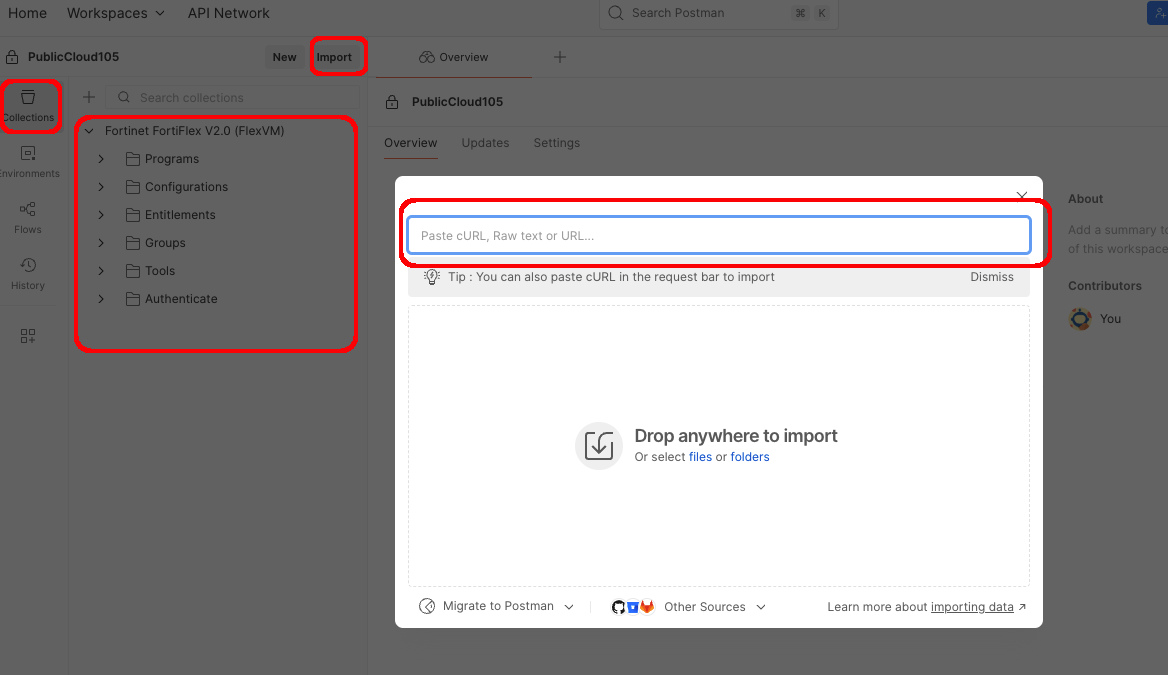
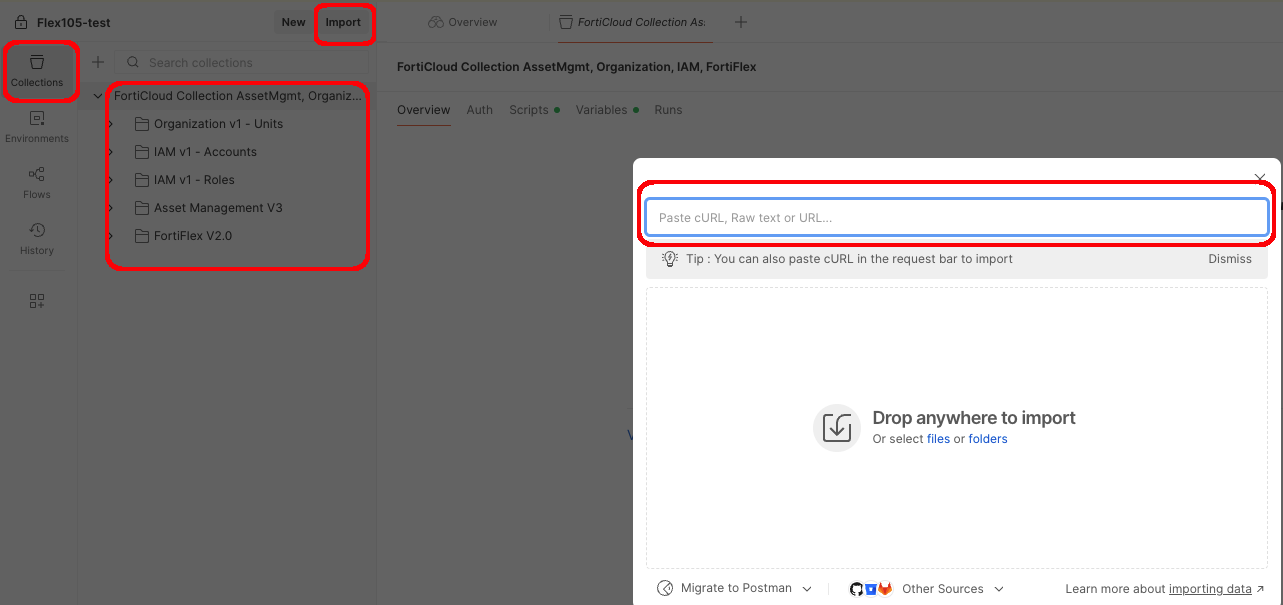
revisions from new API collection

diff --git a/content/03-hands-on-lab/flex-api/_index.md b/content/03-hands-on-lab/flex-api/_index.md
@@ -21,21 +21,38 @@ The following steps should remain relatively consistent regardless of how you're
   - In Postman, use an existing collection, or create a new one if you'd like
   - click on **File**-->**Import** in the top left corner, or **Import** button in the top left of the collection
   - On the import dialog, paste the following URL: 
-    - `https://raw.githubusercontent.com/FortinetCloudCSE/fortiflexvm-api/refs/heads/main/api/Postman/v2/Fortinet%20FortiFlex%20V2.0%20(FlexVM).postman_collection.json`
-  - You should see the **Fortinet FortiFlex v2.0 (FlexVM)** collection appear in the left sidebar
+    - `https://raw.githubusercontent.com/FortinetCloudCSE/fortiflexvm-api/refs/heads/main/api/Postman/v2/FortiCloud.postman_collection.json`
+  - You should see the **FortiCloud Collection** appear in the left sidebar
   {{< figure src="p-import.png" alt="Postman Import Collection" caption="Postman Import Collection" >}}
 {{% /tab %}}
 
-{{% tab title="Import FortiFlex Postman Environment" %}}
-  - In Postman, click on **File**-->**Import** again, or **Import** button in the top left of the collection
-  - On the import dialog, paste the following URL:
-    - `https://raw.githubusercontent.com/FortinetCloudCSE/fortiflexvm-api/refs/heads/main/api/Postman/v2/fortinet-api-flexvm.postman_environment.json`
-    - This will import the FortiFlex Postman environment
-  - You should see the **fortinet-api-flexvm** environment appear under the **Environments** tab in the left sidebar
-  - We will create a user in the FortiCloud IAM portal and add the API credentials to this environment in the next step
-    {{< figure src="p-env-import.png" alt="Postman Import Environment" caption="Postman Import Environment" >}}
+{{% tab title="Postman Collection Variables" %}}
+  - All variables used in the collection are stored at the highest level of the Collection.
+  - Click on **Collection Title** in the left sidebar, then click on the **Variables** tab
+  - You'll see variables for
+    - The API Base URLs
+    - api_username and api_password for authentication
+    - client_id for authentication (only used to override the automated client_id in the script)
+    - access_token, and expires_as for storing  Bearer tokens returned from authentication request for each client_id/request
+
+{{< figure src="p-collect-vars.png" alt="Postman Collection Variables" caption="Postman Collection Variables" >}}
+{{% notice tip %}}
+In most situations, the only variables you'll need to modify are the api_user ane apu_password.  You will notice the access_tokens populate as you launch different API requests 
+{{% /notice %}}
+
 {{% /tab %}}
-   
+{{% tab title="Explore Collection Script" %}}
+  - We've set up the FortiCloud Postman collection to automate the authentication process and store the access token for use in subsequent requests
+    - You can see the scripting used to fetch Bearer tokens by clicking on the **Scripts** tab at the top level of the Collection, and viewing the **Pre-request Script**
+    - Pseudocode 
+      ```
+      1. Grab the URL of the request, along with the API Username and Password
+      2. Set the authentication client_id depending on the path in the URL
+      3. If (No bearer token or it's already ): get a new bearer token with api_username, api_password, and client_id
+      4. Set the bearer token in the request header for the given request type
+      ```
+  - {{< figure src="p-collect-script.png" alt="Postman Collection script" caption="Postman Collection Scripting" >}}
+{{% /tab %}}
 {{< /tabs >}}
 
 
@@ -52,7 +69,9 @@ Click on **Add New --> API User**
 {{<figure src="create-api-user.png" alt="Create FortiFlex API User" caption="Create FortiFlex API User" >}}
 {{% /tab %}}
 {{% tab title="API User" %}}
-Enter a username for the API User such as: `flexapiuser`
+- Enter a username for the API User such as: `flexapiuser`
+- Choose the **SysAdmin** Permission Profile
+- Click Next
 {{<figure src="add-api-user.png" alt="API User" caption="API User Creation" >}}
 {{% /tab %}}
 {{% tab title="API Credentials" %}}
@@ -61,64 +80,49 @@ Enter a username for the API User such as: `flexapiuser`
 
 {{<figure src="api-user-cred-download.png" alt="API Credentials" caption="API Credentials" >}}
 
-- You'll get a password protected zip file with the API credentials.  Open it using the same **password** you entered when downloading the file.
-- The folder will contain a single text file with the APIId and password
-- You'll enter the apiId and password into a Postman Environment in the next step
+- You'll get a password-protected zip file with the API credentials.  Open it using the same **password** you entered when downloading the file.
+- The folder will contain a single text file with the **apiId** and **password**
+- You'll enter the apiId and password into a Postman Collection Variables the next step
 {{% /tab %}}
 
-{{% tab title="Postman Environment" %}}
-- Back on Postman, make sure you have the **fortinet-api-flexvm** environment selected
-- Copy the `apiId` from the credentials text file into the **api-username** Postman **Current value** variable
-- Copy the `password` from the credentials text file into the **api-password** Postman **Current value** variable
-- Click **Save** to save the environment
-{{<figure src="p-env-save.png" alt="Postman Environment" >}}
+{{% tab title="Postman Variables" %}}
+- Back in Postman, enter the newly created apiId and password into the Postman Collection Variables
+- Copy the `apiId` from the credentials text file into the **api_user** Postman **Current value** variable
+- Copy the `password` from the credentials text file into the **api_password** Postman **Current value** variable
+- Click **Save** to save the collection variables
+{{<figure src="p-collect-vars-save.png" alt="Postman Environment" >}}
 {{% notice tip %}}
 **Important**: Make sure to use the **Current value** field, not the **Initial value** field. The **Current value** is what will be used when you send requests.
 {{% /notice %}}
 {{% /tab %}}
 
-{{% tab title="Flex API Authentication" %}}
-Browse to the Flex API collection
-- Open the **Retrieve Auth Token** request, under **Authenticate** folder
-- In the Top right, choose your newly updated environment **fortinet-api-flexvm**
+{{% tab title="Verify Successful Auth" %}}
+
+- From the top level FortiCloud Collection, open folder: **FortiFlex V2.0-->Programs**, and then POST Request:  **List**
 - Click the **Send** button
 {{< figure src="flex-auth-return.png" alt="Postman Auth Token" >}}
-- You should see a response with a 200 OK status and an `access_token` in the response body
-- If you open the scripts tab for this request, you can see that we automatically store this return value for use in subsequent requests
-- Click on the **Variables in request** icon on the rop right, and then expand **All variables** to see the `access_token` variable we store for use in all future requests
+- You should see a response with a 200 OK status and 2 different `serialNumber` in the response body
 
+Congratulations, you're now authenticated with the FortiFlex API!
+{{% notice warning %}}
+If you get an error at this step, please double-check everything and-or check with the Workshop Instructor
+{{% /notice %}}
 
-Congratulations, you're now authenticated with the FortiFlex API! You can use this token for all subsequent API requests.
 {{% /tab %}}
 {{< /tabs >}}
 
-### Step 3: Understand Authentication and Basic List Actions
-Let's take a moment to understand authentication and look at how authentication works with the FortiFlex API list actions
+### Step 3: Basic List Actions
+Let's take a moment to understand FortiFlex API list actions
 {{< tabs >}}
-{{% tab title="Authentication Request" %}}
-The FortiFlex API uses Bearer token authentication. 
-
-- We get a Bearer token by first passing our API Username and API Password in the **Body** of a **Post** to the Authentication URL 
-- Once we have the Bearer token, returned as **access_token** in response body of our **Post** , we can use it in the Authorization header for all subsequent API requests.
-- Full Documentation for the FortiFlex API can be found at: [FortiFlex API Documentation](https://fndn.fortinet.net/index.php?/fortiapi/954-fortiflex/)
-
-{{< figure src="p-authc-request.png" alt="FortiFlex API Documentation" caption="FortiFlex API Documentation" >}}
-{{% /tab %}}
-
-{{% tab title="Programs List AuthC" %}}
-Now that we have a Bearer token, we can retrieve a list of FortiFlex Programs by sending a request to the **/programs/configs** endpoint.
-- Open the **Post list** request from the **Programs** folder in the collection
-- Click **Send** to retrieve the list of Programs
-- You should see a response with a 200 OK status and a list of programs in the response body
-{{< figure src="p-program-list-authc.png" alt="FortiFlex Configurations List AuthC" caption="FortiFlex Configurations List AuthC" >}}
-{{% /tab %}}
 
 {{% tab title="Configuration List Body" %}}
 To view configurations
 - We can then take the Flex Program SN we got from the previous request along with our FortiCloud Account ID, and use it to retrieve a list of Configurations for that Program.
 - Open the **Post List** request from the **Configurations** folder in the collection 
-  - For this Workshop, the Program SN is: `ELAVMR0000000519`
+  - For this Workshop, we're focusing on FortiFlex MSSP(postpaid), and the Program SN is: `ELAVMS0000000518`
   - You can get your FortiCloud Account ID from the FortiCloud Portal top right corner
+    - click on the down arrow next to your account name, and look for the **Member Account ID**
+    {{< figure src="fcld-accountId.png" alt="FortiCloud Account ID" caption="FortiCloud Account ID" >}}
   - enter both into the **Body** of the **Get Configurations** request, and click **Send**
   - You should see a response with a 200 OK status and a list of configurations in the response body
   {{< figure src="p-config-list.png" alt="FortiFlex Configurations List Body" caption="FortiFlex Configurations List Body" >}}
@@ -133,18 +137,18 @@ Next, we can retrieve a list of Entitlements by sending a request to the **/enti
 {{< /tabs >}}
      
 ### Step 4: Entitlement Management via API
-Let's look at disabling and enabling entitlements via the API
+Let's look at stopping and re-activating entitlements via the API
 
 {{< tabs >}}
-{{% tab title="Disable Entitlement" %}}
-- Open the **Stop ** request from the **Entitlements** folder in the collection
+{{% tab title="Stop Entitlement" %}}
+- Open the **Stop** request from the **Entitlements** folder in the collection
 - Under the **Body** tab, enter the **serialNumber** you got from the previous request
 - Click **Send** to disable the entitlement
 - You should see a response with a 200 OK status and the entitlement status updated to "STOPPED"
 - You can verify this by sending the **list** request and checking the status, or by checking the WebUI
 {{< figure src="p-entitle-stop.png" alt="Disable Entitlement" caption="Disable Entitlement" >}}
 {{% /tab %}}
-{{% tab title="Enable Entitlement" %}}
+{{% tab title="Reactivate Entitlement" %}}
 - Open the **reactivate** request from the **Entitlements** folder in the collection
 - Under the **Body** tab, enter the **serialNumber** you got from the previous request
 - Click **Send** to enable the entitlement
@@ -162,15 +166,14 @@ Let's look at disabling and enabling entitlements via the API
 
 ## Key Takeaways from API Basics
 
-**Speed**: API operations complete in seconds vs minutes for manual operations.
-**Consistency**: Automated processes eliminate human error and ensure standardization.
-**Integration**: APIs enable seamless integration with existing DevOps and FinOps workflows.
-**Scalability**: Serverless functions can handle multiple concurrent scaling requests.
-**Cost Optimization**: Automated scheduling can significantly reduce costs during off-hours.
-**Best Practices Learned**:
-- Always validate API responses before proceeding to next steps
-- Implement proper error handling and retry logic
-- Use environment variables for sensitive data like API keys
+- **Speed**: API operations complete in seconds vs minutes for manual operations.
+- **Consistency**: Automated processes eliminate human error and ensure standardization.
+- **Integration**: APIs enable seamless integration with existing DevOps and FinOps workflows.
+- **Scalability**: Serverless functions can handle multiple concurrent scaling requests.
+- **Cost Optimization**: Automated scheduling can significantly reduce costs during off-hours.
+- **Best Practices Learned**:
+  - Always validate API responses before proceeding to next steps
+  - Use Collection variables for sensitive data like API keys
 
 
 

diff --git a/content/01-introduction/learningModules/FortiFlex/_index.md b/content/01-introduction/learningModules/FortiFlex/_index.md
@@ -15,6 +15,16 @@ FortiFlex is Fortinet's usage-based licensing solution that transforms how organ
 - **Flexible scaling** to match business demands
 - **Simplified management** through centralized control
 
+## FortiFlex Flavors: Enterprise vs MSSP
+
+- FortiFlex Enterprise(also called FortiFlex prepaid subscription service): Designed for individual organizations to manage their own Fortinet deployments with flexible licensing.
+  - Flex Points are purchased in advance and consumed as Fortinet products are deployed.
+  - Ideal for enterprises with predictable usage patterns and a need for direct control over their security infrastructure.
+- FortiFlex MSSP(also referred to a FortiFlex postpaid subscription service): Tailored for Managed Security Service Providers (MSSPs) to offer Fortinet services to multiple customers.
+  - Allows MSSPs to manage multiple customer deployments from a single FortiFlex account.
+  - Provides features for multi-tenancy, centralized billing, and customer management.
+  - Ideal for MSSPs looking to provide automated Marketplace deployments with flexible billing to their customers.
+
 ## Core Components
 
 ### 1. FortiFlex Configurations
@@ -46,6 +56,12 @@ FortiFlex is Fortinet's usage-based licensing solution that transforms how organ
 - Charged by points per hour of operation
 - Different VM sizes consume different point rates
 - Automatic billing integration with Fortinet accounts
+
+{{% notice warning %}}
+Due to the regulatory nature and requirements around serial numbers and billing of the FortiFlex program, it is not possible to delete configurations or entitlements once they are created. This is to ensure compliance and accurate billing records are maintained in perpetuity.
+
+As such, we will not be creating any more entities than are necessary for demonstration purposes during this workshop
+{{% /notice %}}
 
 ### 3. FortiFlex WebUI
 

diff --git a/content/01-introduction/learningModules/FortiCloud_Orgs/_index.md b/content/01-introduction/learningModules/FortiCloud_Orgs/_index.md
@@ -1,5 +1,5 @@
 ---
-title: "FortiCloud Organizations"
+title: "FortiCloud_localDev Organizations"
 weight: 10
 ---
 
